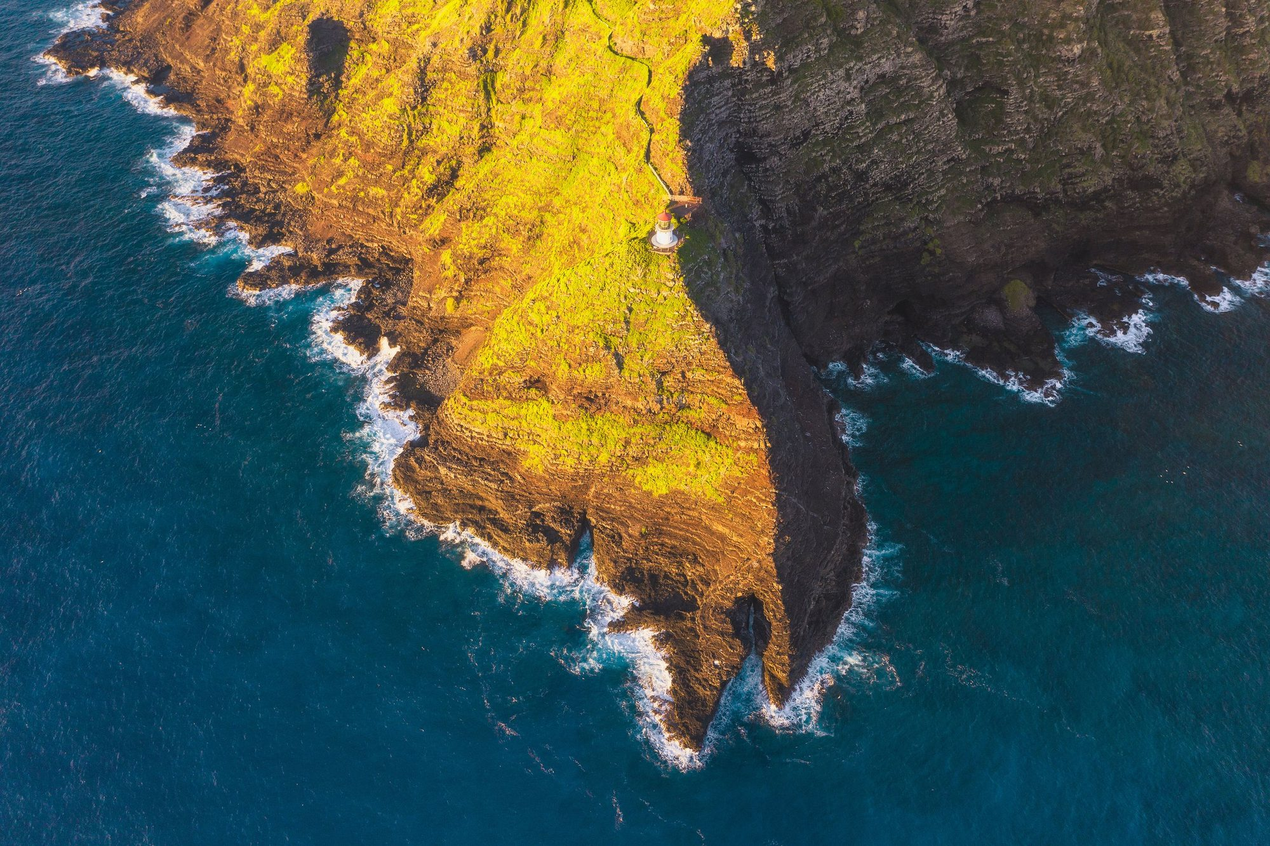
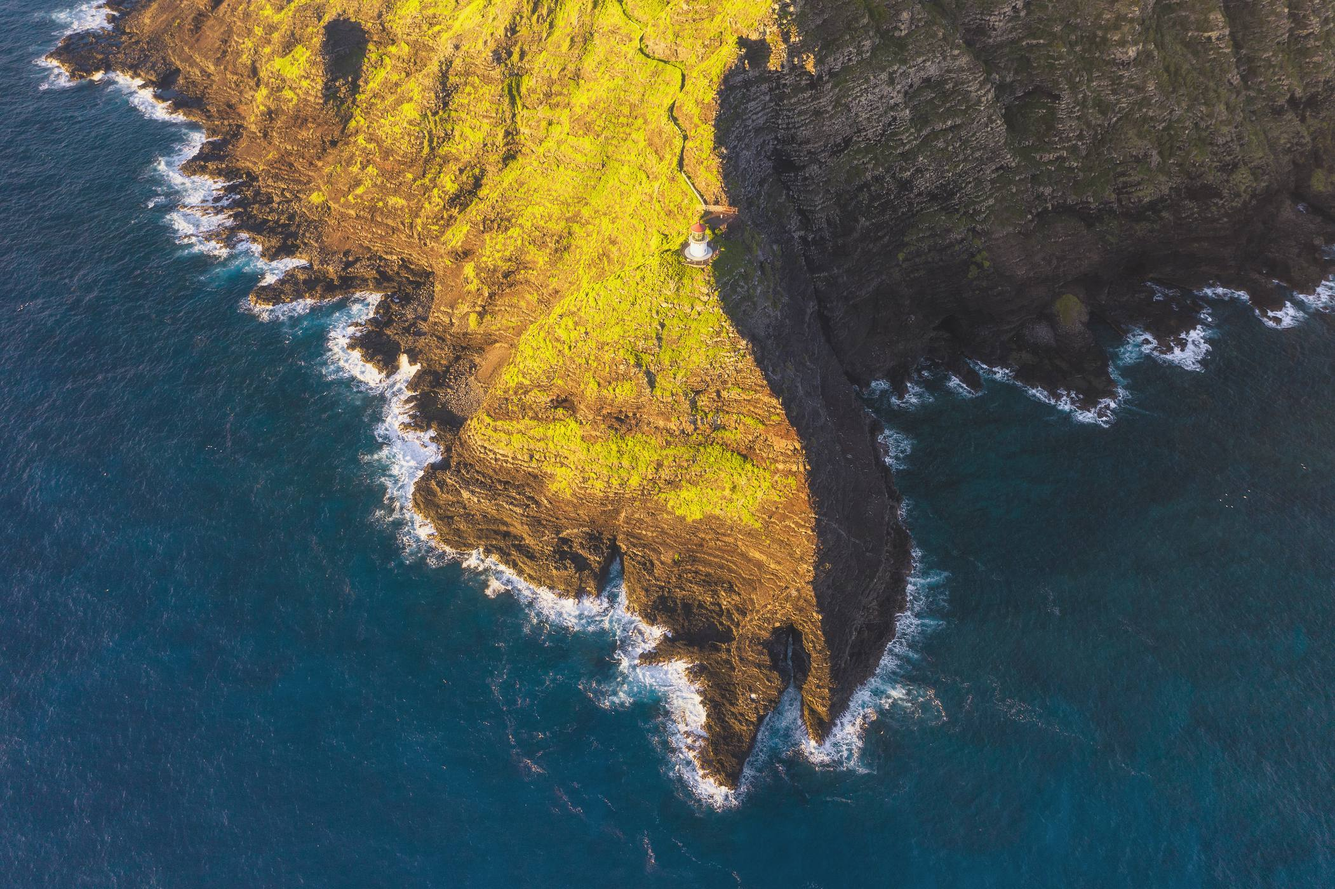
Swap in the full resolution originals for three more images
Kawika supplied the camera originals of shots the site was already using in
degraded form. The old versions were whatever the Squarespace CDN would hand
back, which capped everything at 2500px and served two of these at 600x400.

  aerial       5464x3640 original of the Makapuu lighthouse shot, was a
               2500x1665 CDN copy
  photography  7915x5279 original of the three tier waterfall, was 600x400
  owner        2400x1600 of Kawika on the gimbal, was 600x400

Sized to the need rather than shipped whole. Every place these appear is a 4:5
box, and object-fit cover scales to fit height, so height is the only
dimension that has to clear the target: about 1300 for a work card, about 1550
for the studio portrait. The aerial also takes a lower quality setting than
the others, because ocean chop and lava rock are dense texture that would
otherwise have made it the heaviest file on the page after the video.

photography.jpg deliberately stays one file even though it appears twice, in
the 3:2 services card and the 4:5 work card. Splitting it would mean the same
photograph downloaded twice on one page, so it is sized for the taller of the
two uses and the wider one simply oversamples.

Every 4:5 crop was checked before committing, because these are all landscape
originals going into portrait cards and the subject can fall outside the crop.
The lighthouse, the waterfall and its climber, and Kawika's face all survive
the centre crop.
[…]

diff --git a/index.html b/index.html
@@ -210,7 +210,7 @@
 
         <article class="card" data-tilt data-reveal>
                     <div class="card-media">
-            <img src="assets/img/photography.jpg" alt="A hiker standing at the base of a waterfall on Maui" width="1200" height="800" loading="lazy">
+            <img src="assets/img/photography.jpg" alt="A hiker at the base of a three tier waterfall on Maui" width="2249" height="1500" loading="lazy">
           </div>
           <div class="card-glare"></div>
           <div class="card-body">
@@ -238,12 +238,12 @@
 
     <div class="hs-track">
       <a class="hs-card" href="#contact">
-        <img src="assets/img/aerial.jpg" alt="Aerial view of a Hawaii coastline at golden hour" width="2000" height="1332" loading="lazy">
+        <img src="assets/img/aerial.jpg" alt="Aerial view of Makapuu Point lighthouse on the Oahu coastline" width="2102" height="1400" loading="lazy">
         <span class="hs-ghost">01</span>
         <div class="hs-body">
           <span class="kicker">Brand film</span>
           <h3>Island tourism</h3>
-          <p>Aerial and ground campaign shot across four islands.</p>
+          <p>Aerial and ground campaign shot across all the islands.</p>
         </div>
       </a>
 
@@ -268,7 +268,7 @@
       </a>
 
       <a class="hs-card" href="#contact">
-        <img src="assets/img/photography.jpg" alt="Waterfall and swimming hole photographed on Maui" width="1200" height="800" loading="lazy">
+        <img src="assets/img/photography.jpg" alt="Three tier waterfall and swimming hole photographed on Maui" width="2249" height="1500" loading="lazy">
         <span class="hs-ghost">04</span>
         <div class="hs-body">
           <span class="kicker">Photography</span>
@@ -298,7 +298,7 @@
 
     <div class="wrap-wide about-grid">
       <div class="about-media" data-reveal>
-        <img src="assets/img/owner.jpg" alt="Kawika Lopez operating a gimbal mounted cinema camera on location" width="1200" height="800">
+        <img src="assets/img/owner.jpg" alt="Kawika Lopez operating a gimbal mounted cinema camera on location" width="2400" height="1600">
         <span class="about-cap">Kawika Lopez, owner</span>
       </div>
 
